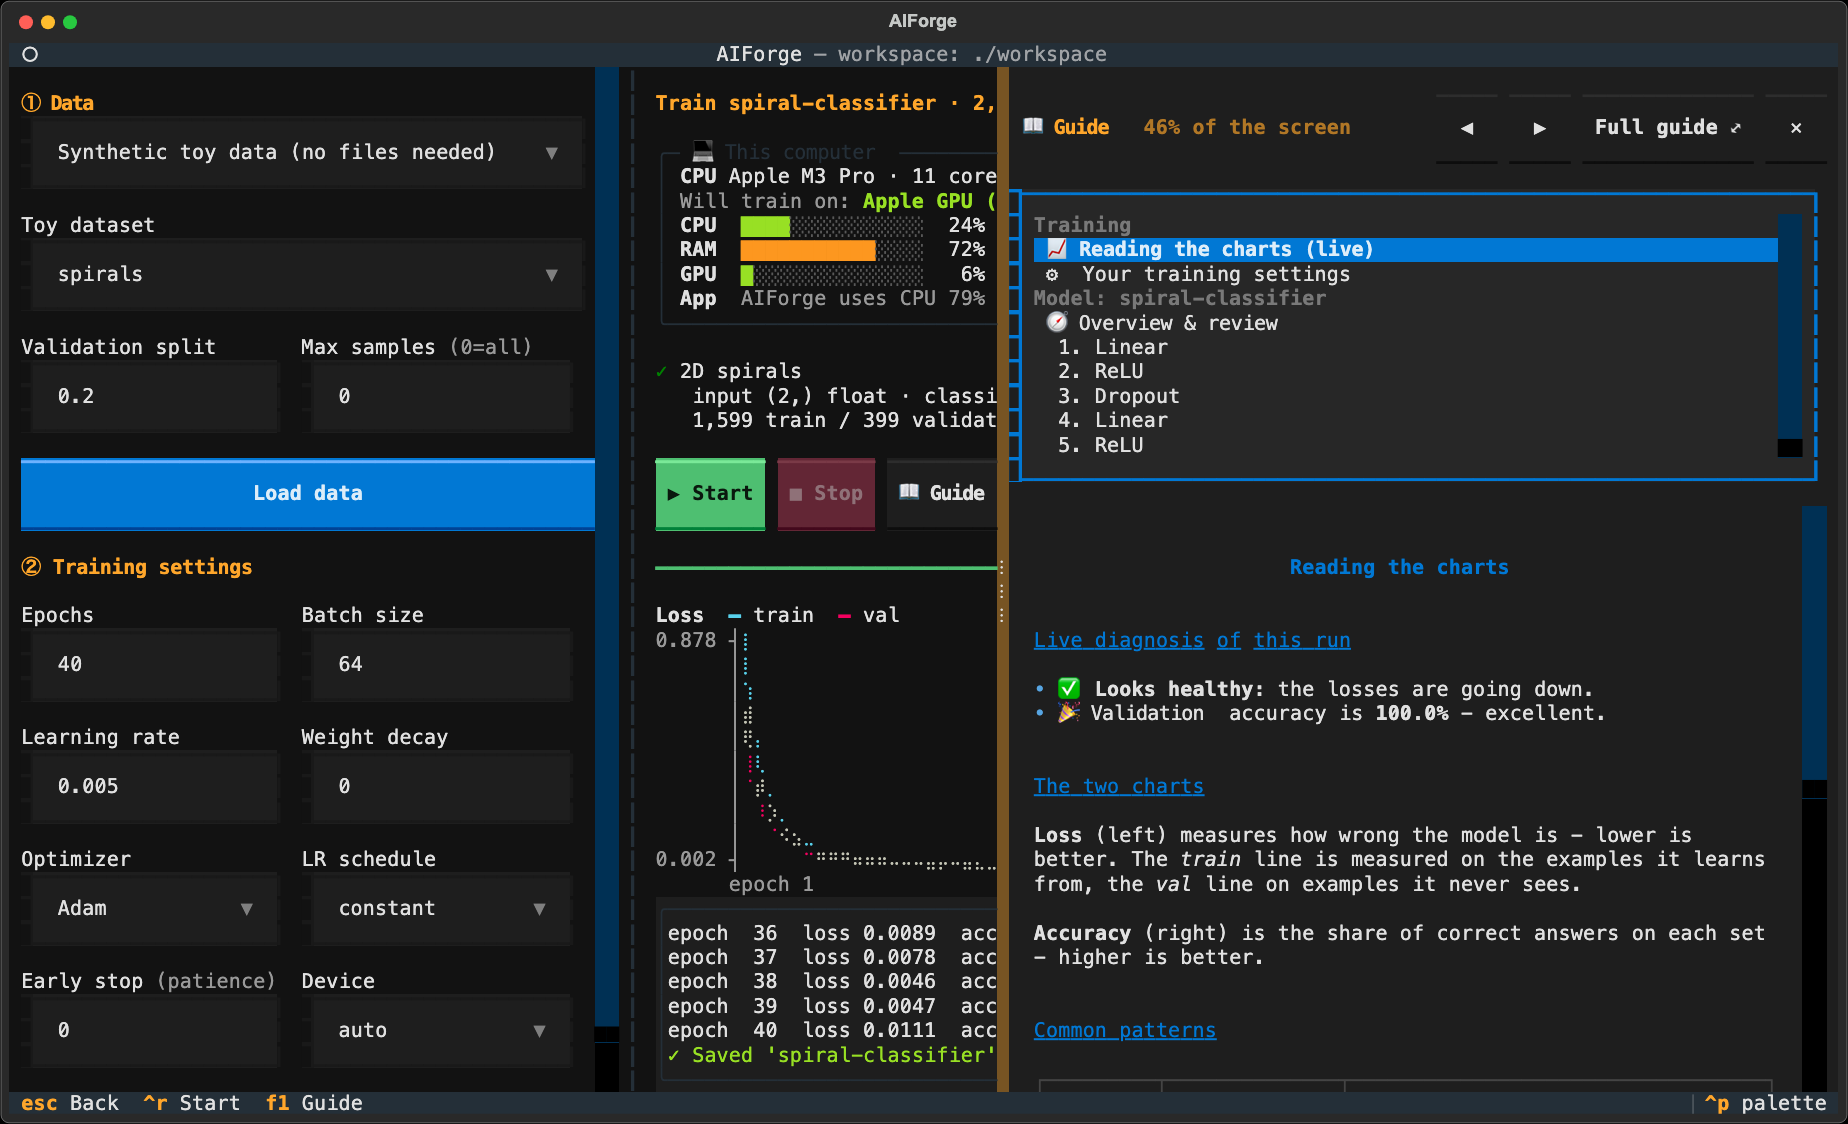
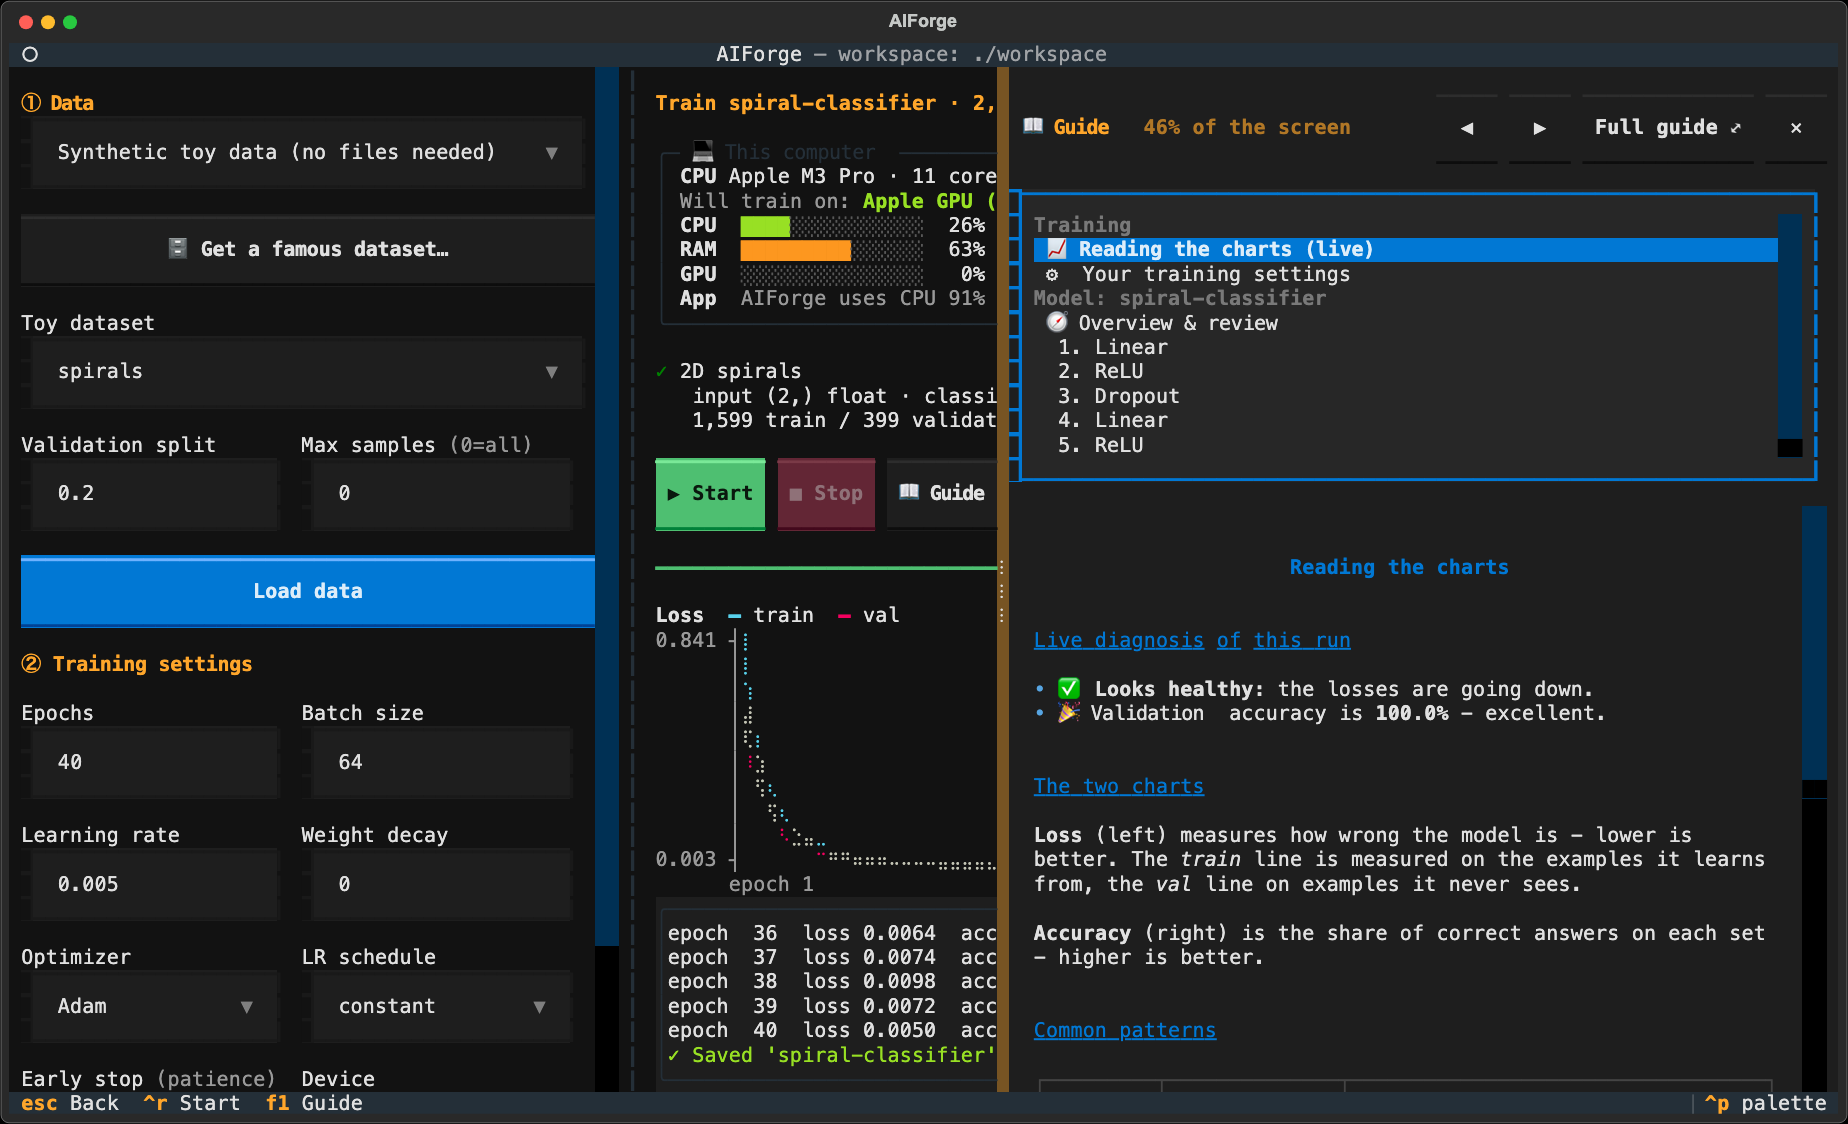
Modify readme

diff --git a/docs/make_screenshots.py b/docs/make_screenshots.py
@@ -1,7 +1,8 @@
 """Regenerate the README screenshots in docs/images/.
 
 Run from the project root:  .venv/bin/python docs/make_screenshots.py
-It drives the app through a real session (create, build, train, fine-tune, use, export)
+It drives the app through a real session (create, build, train, fine-tune, use, export,
+download a dataset - this step needs internet)
 in a throw-away workspace, captures each screen as SVG and converts it to PNG with headless
 Google Chrome (PNG, because PyPI can't display SVGs hosted on GitHub).
 """
@@ -90,6 +91,7 @@ async def main():
         # Builder error example (CNN template with a misplaced layer) -- separate model
         await pilot.press("n"); await pilot.pause()
         app.screen.query_one("#name", Input).value = "digit-reader"
+        app.screen.query_one("#type", Select).value = "🖼 Computer vision (images)"; await pilot.pause(0.3)
         app.screen.query_one("#template", Select).value = "Small CNN (28×28 grayscale, e.g. MNIST)"
         app.screen.submit(); await pilot.pause(0.6)
         b = app.screen; t = b.query_one("#stack", DataTable)
@@ -162,6 +164,30 @@ async def main():
         # Home with models
         home.query_one("#models", DataTable).move_cursor(row=1); await pilot.pause(0.5)
         shot("10-home", "AIForge – model library")
+
+        # Dataset hub (needs internet): a downloaded dataset, then a download in progress
+        await pilot.press("s"); await pilot.pause(0.5)
+        hub = app.screen
+        hub_list = hub.query_one("#hub-list", OptionList)
+
+        def pick(key):
+            hub_list.highlighted = next(i for i in range(hub_list.option_count)
+                                        if hub_list.get_option_at_index(i).id == key)
+        pick("iris"); await pilot.pause(0.3)
+        hub._start_download()
+        await wait_for(pilot, lambda: hub.downloading is None); await pilot.pause(0.5)
+        md = hub.query_one("#hub-text")  # show the throw-away workspace as ./workspace
+        md.update(md.source.replace(str(WS), "./workspace")); await pilot.pause(0.5)
+        shot("17-datasets", "AIForge – download famous datasets")
+        pick("imdb"); await pilot.pause(0.3)
+        hub._start_download()
+        await wait_for(pilot, lambda: "MB /" in str(hub.query_one("#hub-status").render()))
+        await pilot.pause(3)
+        shot("18-datasets-download", "AIForge – downloading a dataset")
+        hub._cancel = True
+        await wait_for(pilot, lambda: hub.downloading is None)
+        await pilot.press("escape"); await pilot.pause(0.3)
+
         await pilot.press("i"); await pilot.pause(0.3)
         app.screen.query_one("#path", Input).value = "~/Downloads/my-model.aiforge.zip"; await pilot.pause()
         shot("11-import", "AIForge – import a model")

diff --git a/README.md b/README.md
@@ -179,6 +179,8 @@ model with a design review, and an encyclopedia of every layer.
 Press `s` on the home screen (or **🗄 Get a famous dataset…** on the Train screen). Pick one,
 press **⇩ Download**, then **▶ Train on it**. AIForge fills in all the fields and loads it.
 
+![Dataset hub](https://raw.githubusercontent.com/ducdinh-codehub/ai-forge/main/docs/images/17-datasets.png)
+
 | Model type | Datasets |
 |---|---|
 | 📊 Tabular | Iris · Wine · Breast cancer · Adult income · Red wine quality · California housing |
@@ -186,7 +188,10 @@ press **⇩ Download**, then **▶ Train on it**. AIForge fills in all the field
 | 💬 Text | SMS Spam · SST-2 · IMDB reviews · AG News |
 
 All come from their official sources (UCI, Stanford, Oxford, U. Toronto, Zalando, fast.ai).
-Each one shows its publisher, license, size and the templates that suit it.
+Each one shows its publisher, license, size and the templates that suit it. Downloads show
+their progress and can be cancelled:
+
+![Downloading a dataset](https://raw.githubusercontent.com/ducdinh-codehub/ai-forge/main/docs/images/18-datasets-download.png)
 
 ### Option B: your own files
 
